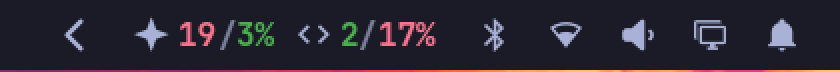
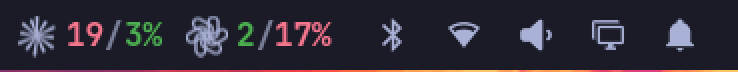
Draw spark and knot glyphs for Claude and Codex
Hand-drawn marks that suggest each tool, replacing the generic icons.
Retake the images to match.

diff --git a/Panel.qml b/Panel.qml
@@ -38,9 +38,6 @@ Panel {
 
   readonly property string gaugeGlyph: String.fromCodePoint(0xf029a)    // md-gauge
   readonly property string refreshGlyph: String.fromCodePoint(0xf0450)  // md-refresh
-  readonly property string sparkleGlyph: String.fromCodePoint(0xf0ae2)  // md-star_four_points
-  readonly property string codeGlyph: String.fromCodePoint(0xf0174)     // md-code_tags
-  readonly property string apiGlyph: String.fromCodePoint(0xf109b)      // md-api
 
   // ---- theme colors
   // The shell exposes red as `urgent` but not green or yellow, so take those
@@ -460,16 +457,62 @@ Panel {
     font.pixelSize: Style.font.caption
   }
 
-  // Generic icons rather than company logos.
-  component ToolGlyph: Text {
+  // Hand-drawn marks in the style of Claude and ChatGPT, tuned to stay legible
+  // at bar size.
+  component ToolGlyph: Canvas {
+    id: glyph
     property string provider: ""
     property color tint: root.fg
-    textFormat: Text.PlainText
-    text: provider === "claudeCode" ? root.sparkleGlyph : (provider === "codex" ? root.codeGlyph : root.apiGlyph)
-    color: tint
-    font.family: root.fontFamily
-    font.pixelSize: Style.font.title
-    renderType: Text.NativeRendering
+    readonly property bool spark: provider === "claudeCode" || provider === "anthropicAPI"
+
+    width: Style.space(16)
+    height: width
+
+    onTintChanged: requestPaint()
+    onProviderChanged: requestPaint()
+    onWidthChanged: requestPaint()
+
+    onPaint: {
+      var ctx = getContext("2d")
+      ctx.reset()
+      var r = Math.min(width, height) / 2
+      ctx.translate(width / 2, height / 2)
+      ctx.fillStyle = tint
+      ctx.strokeStyle = tint
+      if (spark) {
+        // Rays of uneven length and spacing, narrow at the center and blunt at
+        // the tip, so they stay separate instead of merging into a disc.
+        var rays = [[-90, 0.98], [-58, 0.84], [-27, 0.96], [5, 0.82], [36, 0.98], [66, 0.86],
+                    [97, 0.96], [128, 0.84], [158, 0.98], [190, 0.82], [221, 0.94], [250, 0.84]]
+        var base = r * 0.035
+        var tip = r * 0.085
+        for (var i = 0; i < rays.length; i++) {
+          var a = rays[i][0] * Math.PI / 180
+          var ux = Math.cos(a)
+          var uy = Math.sin(a)
+          var l = r * rays[i][1] - tip
+          ctx.beginPath()
+          ctx.moveTo(-uy * base, ux * base)
+          ctx.lineTo(ux * l - uy * tip, uy * l + ux * tip)
+          ctx.arc(ux * l, uy * l, tip, a + Math.PI / 2, a - Math.PI / 2, true)
+          ctx.lineTo(uy * base, -ux * base)
+          ctx.closePath()
+          ctx.fill()
+        }
+      } else {
+        // Six rounded links, 60° apart and offset from center, interlock.
+        ctx.lineWidth = r * 0.13
+        for (var j = 0; j < 6; j++) {
+          ctx.save()
+          ctx.rotate(j * Math.PI / 3)
+          ctx.translate(r * 0.30, 0)
+          ctx.beginPath()
+          ctx.roundedRect(-r * 0.23, -r * 0.90, r * 0.46, r * 1.0, r * 0.23, r * 0.23)
+          ctx.stroke()
+          ctx.restore()
+        }
+      }
+    }
   }
 
   component LimitRow: Column {
